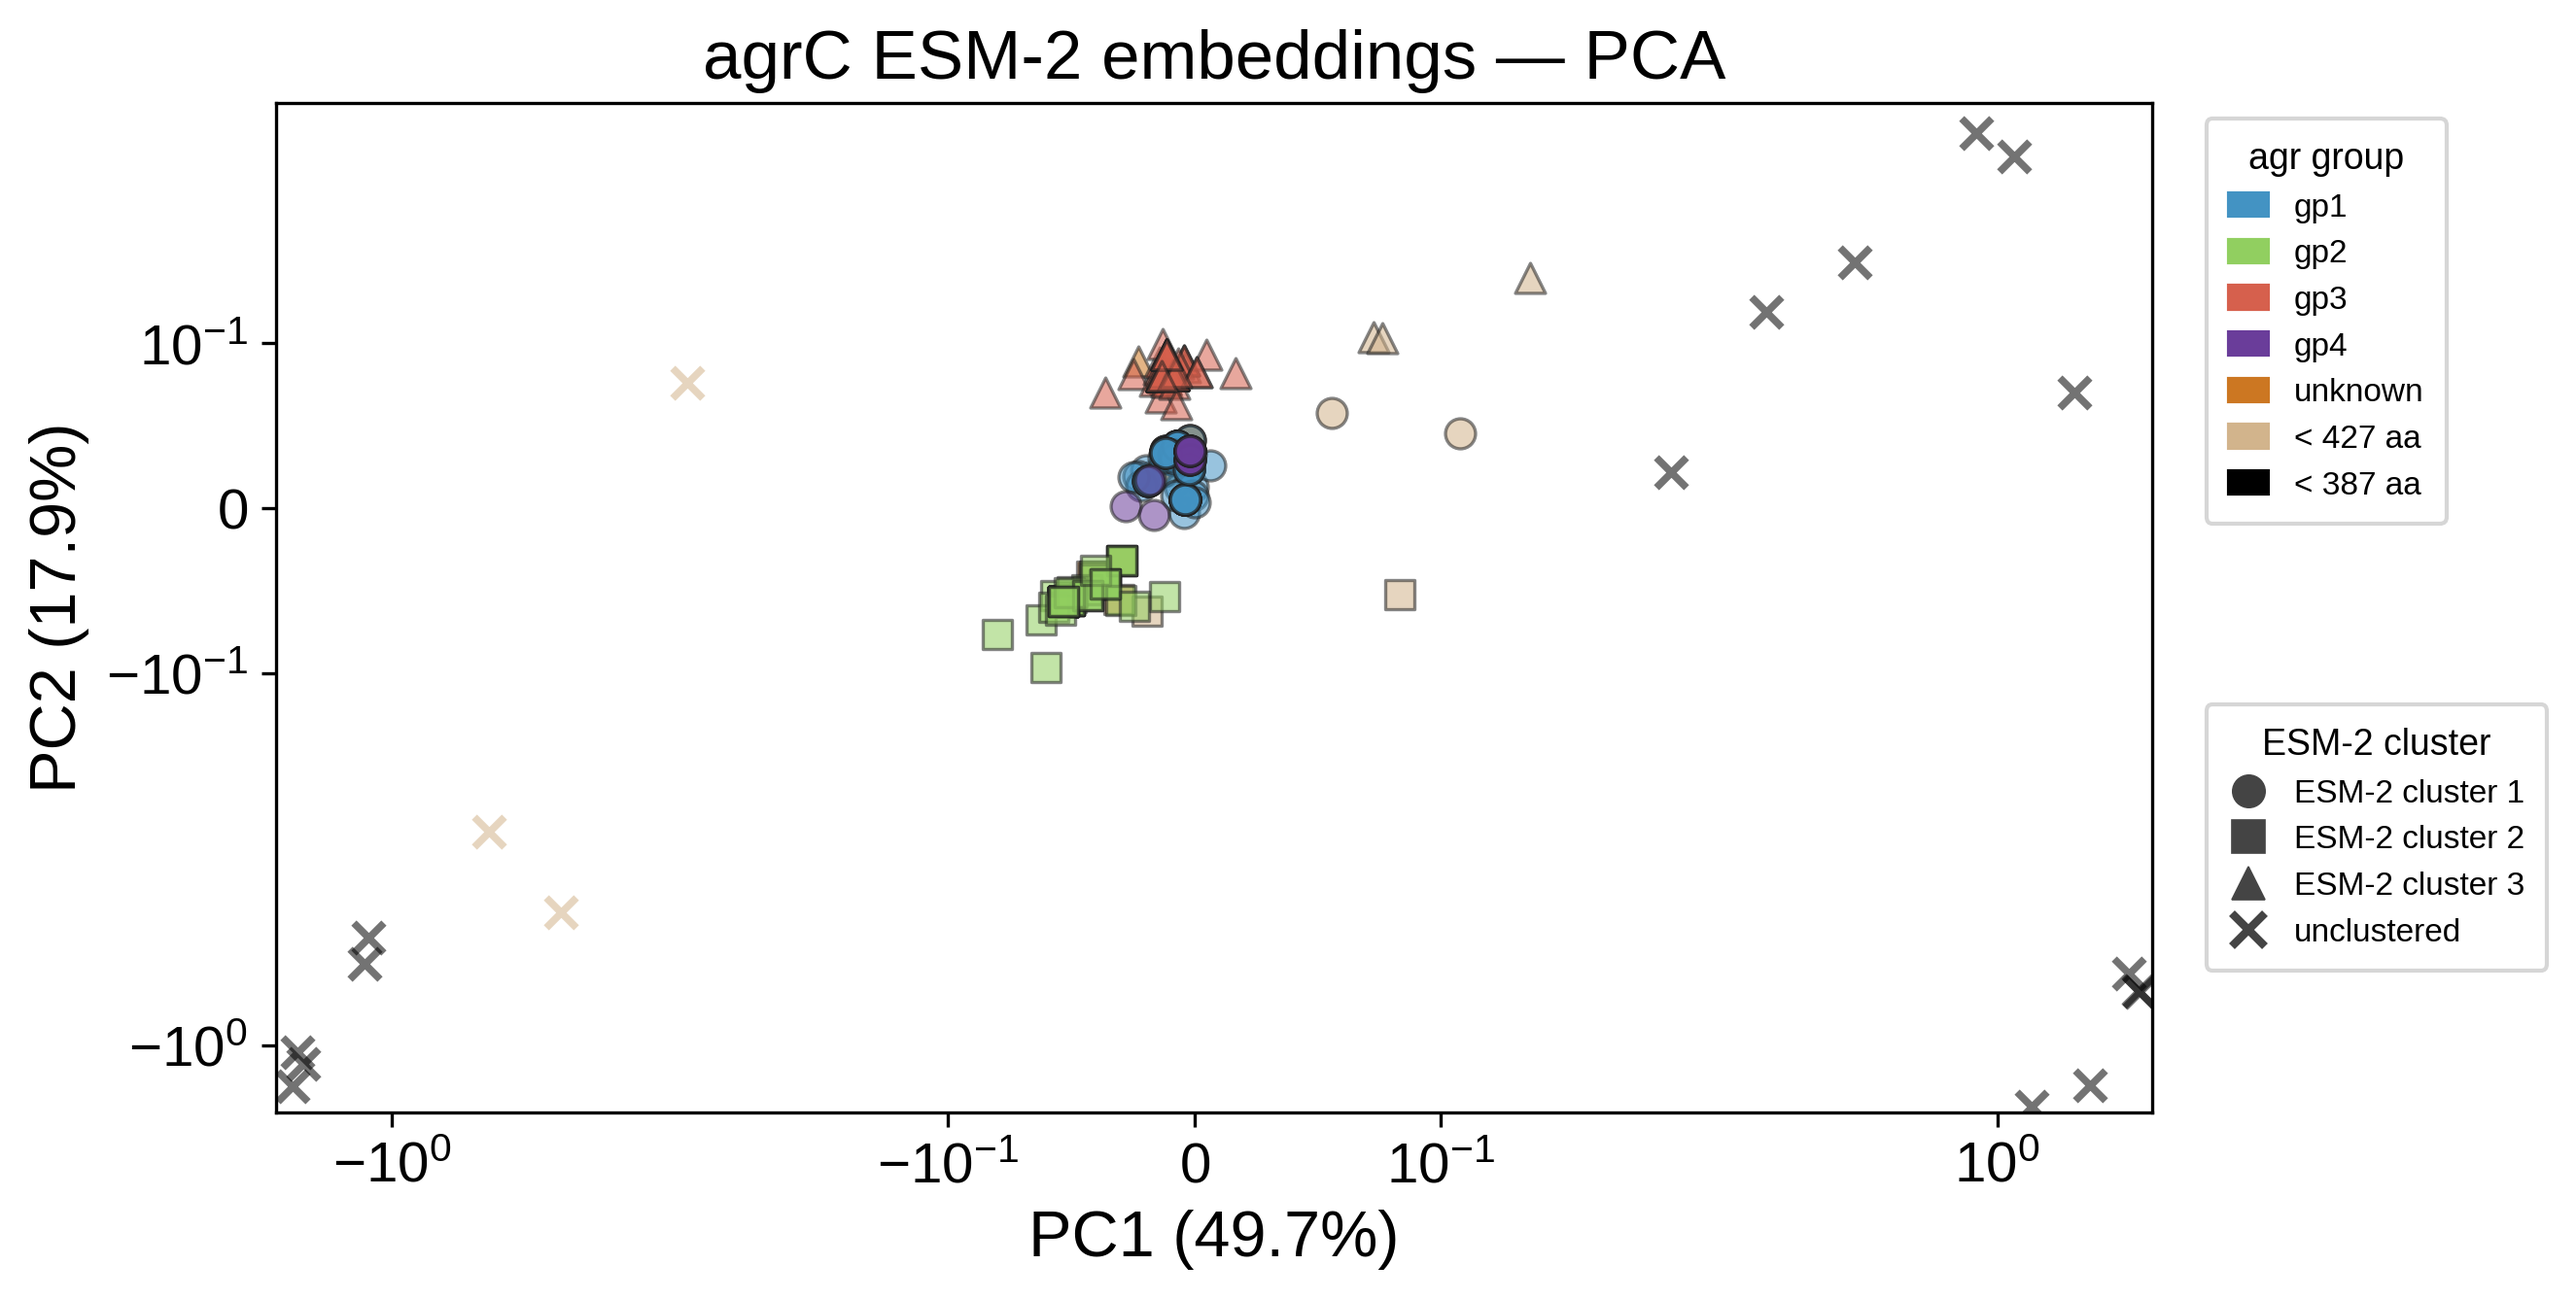
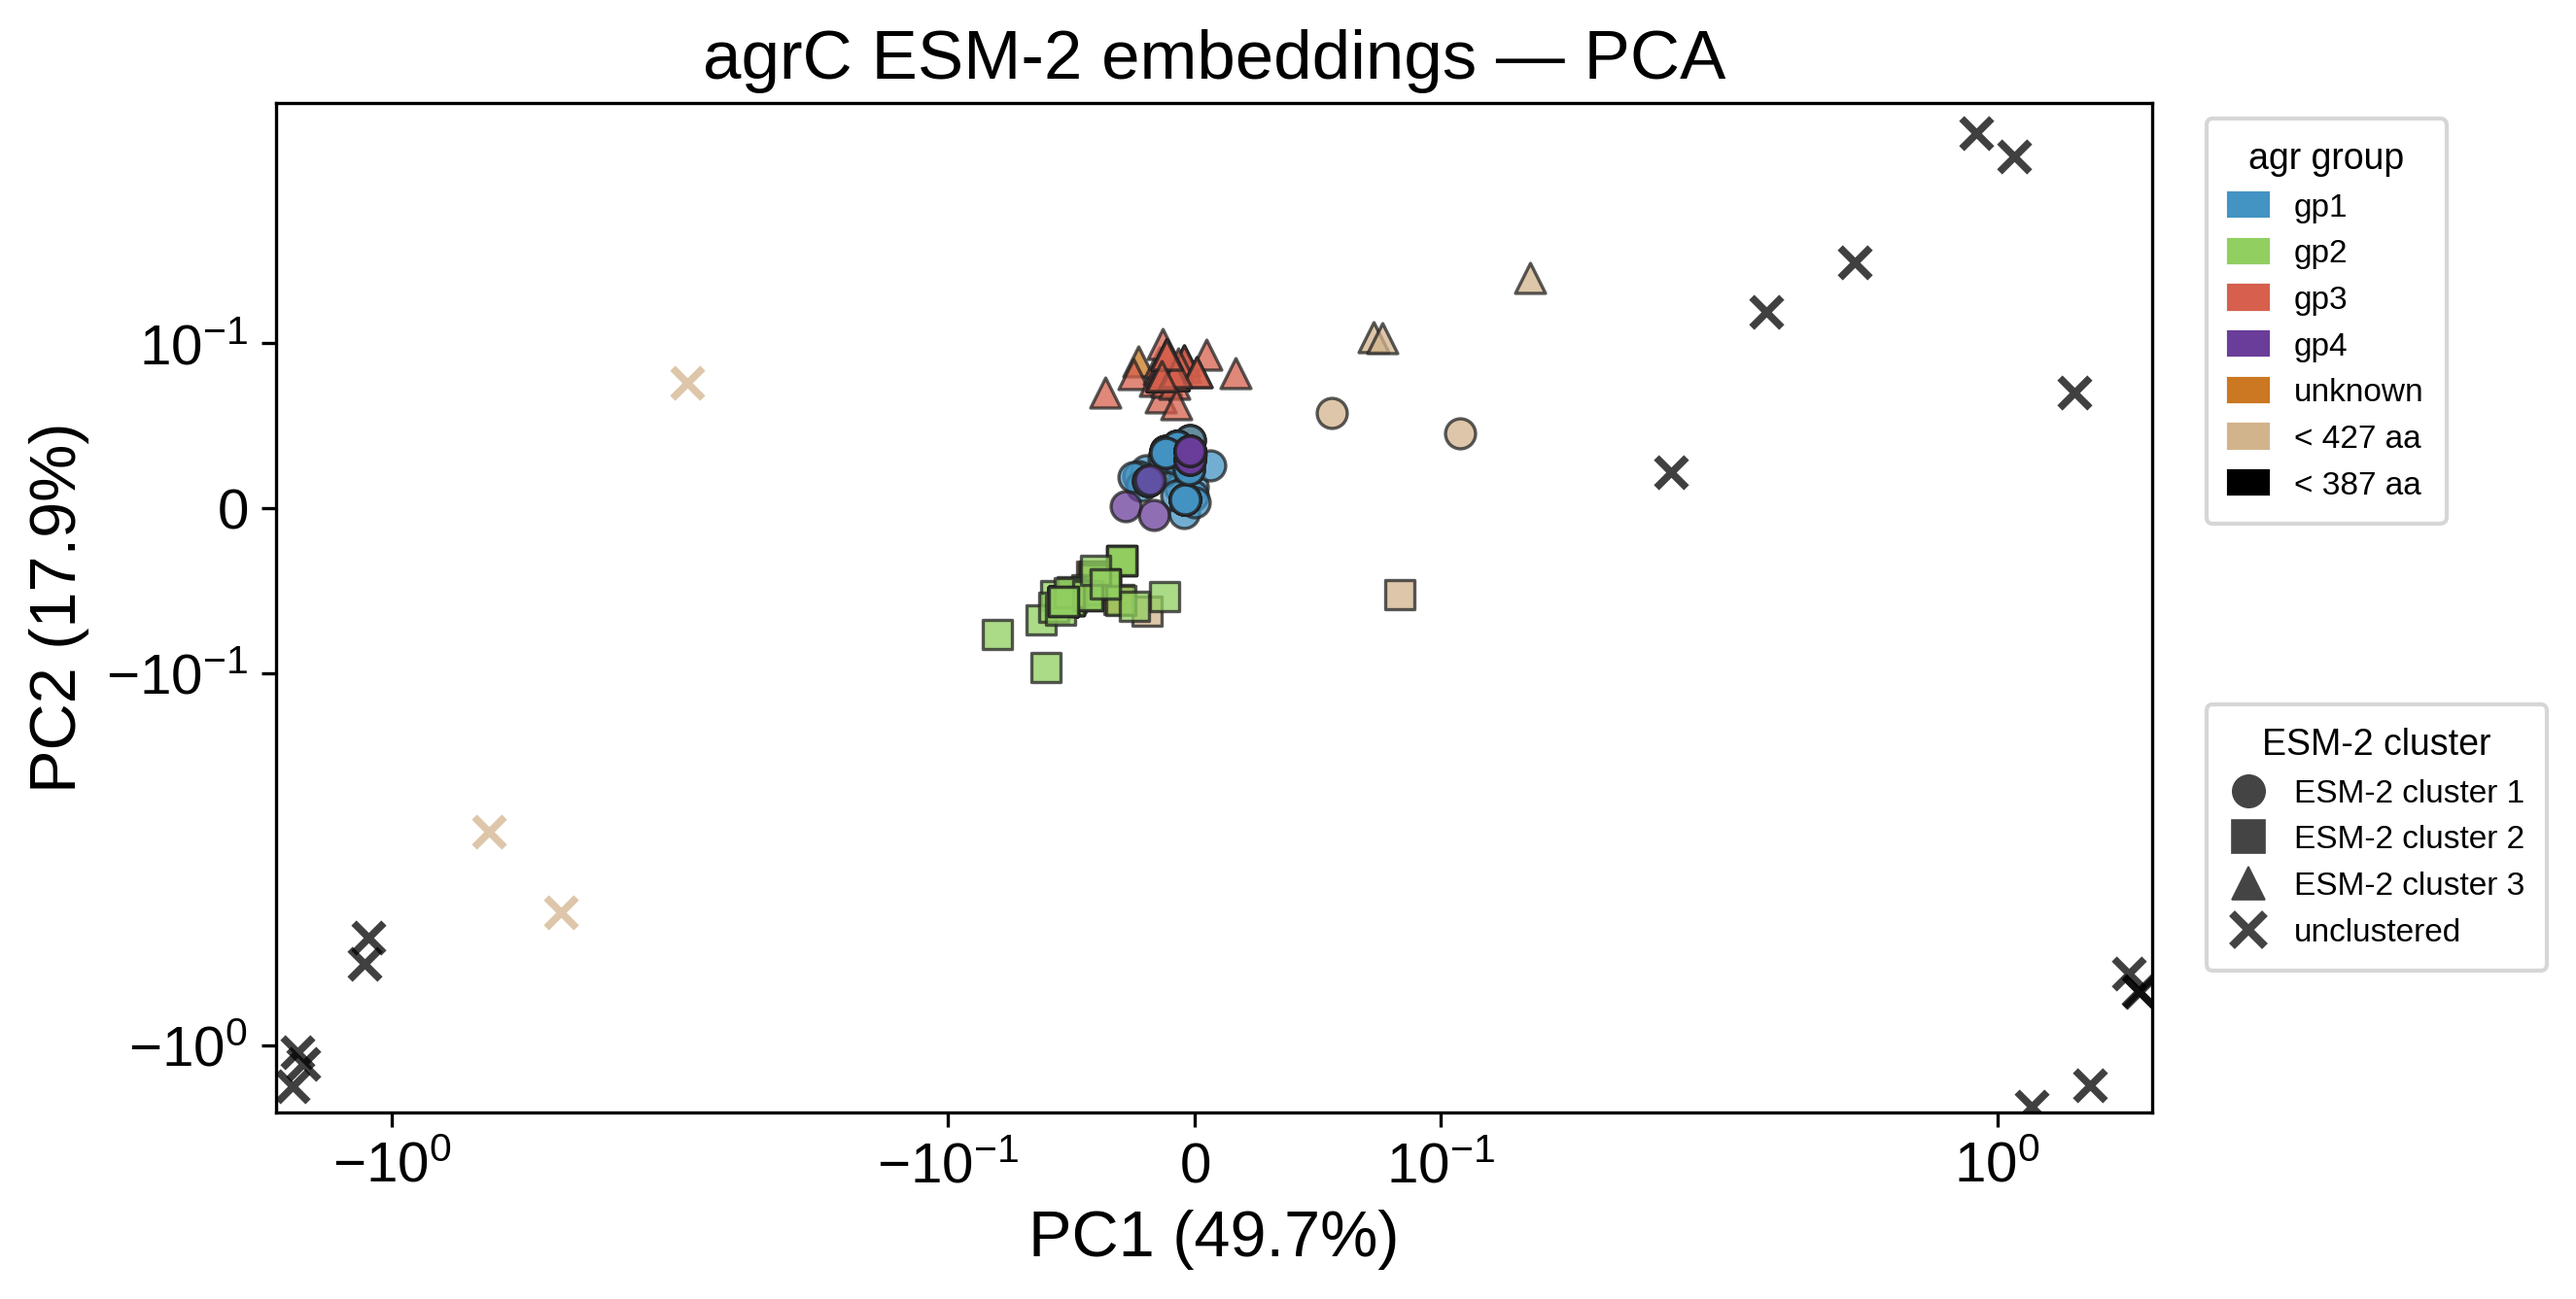
Increase point alpha from 0.55 to 0.75

diff --git a/agrc_esm_single.py b/agrc_esm_single.py
@@ -138,7 +138,7 @@ for agr in agr_order:
         ax.scatter(subsub["pc1"], subsub["pc2"],
                    c=p1_colors[agr],
                    marker=cluster_markers[clust],
-                   s=55, alpha=0.55,
+                   s=55, alpha=0.75,
                    linewidths=1.8 if clust == "unclustered" else 0.8,
                    edgecolors=p1_colors[agr] if clust == "unclustered" else "#222222",
                    zorder=zord)
